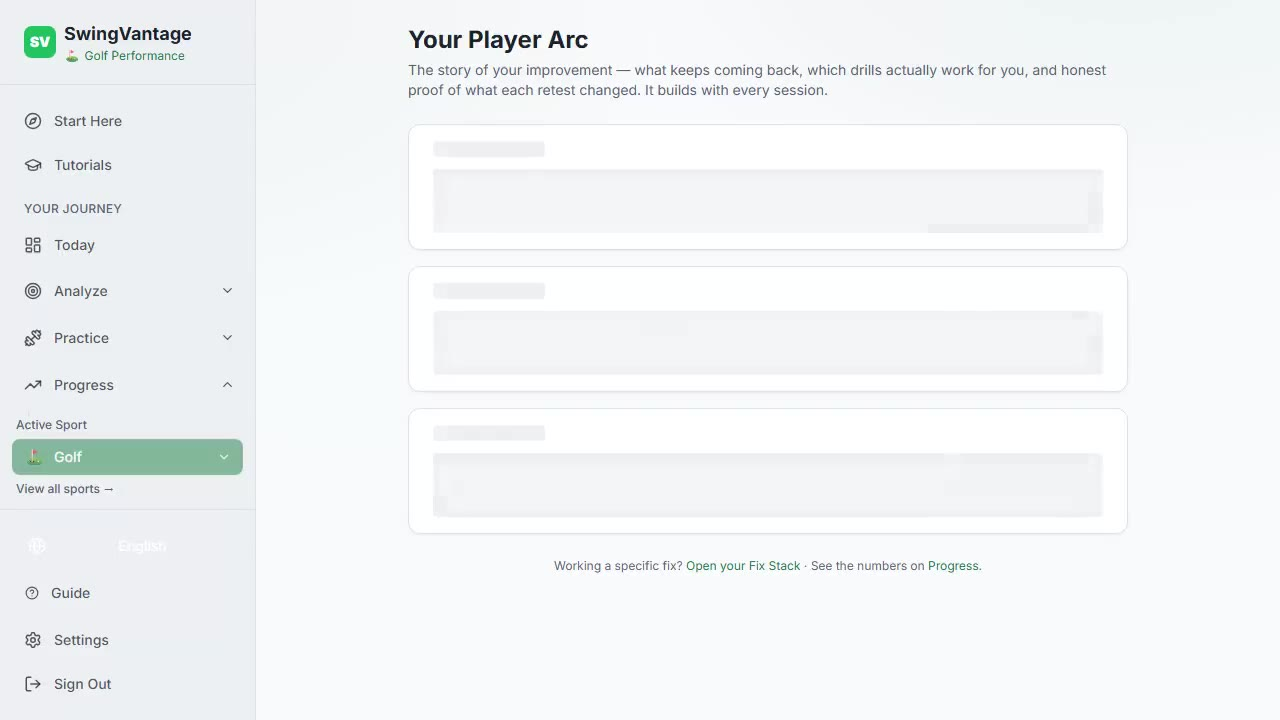
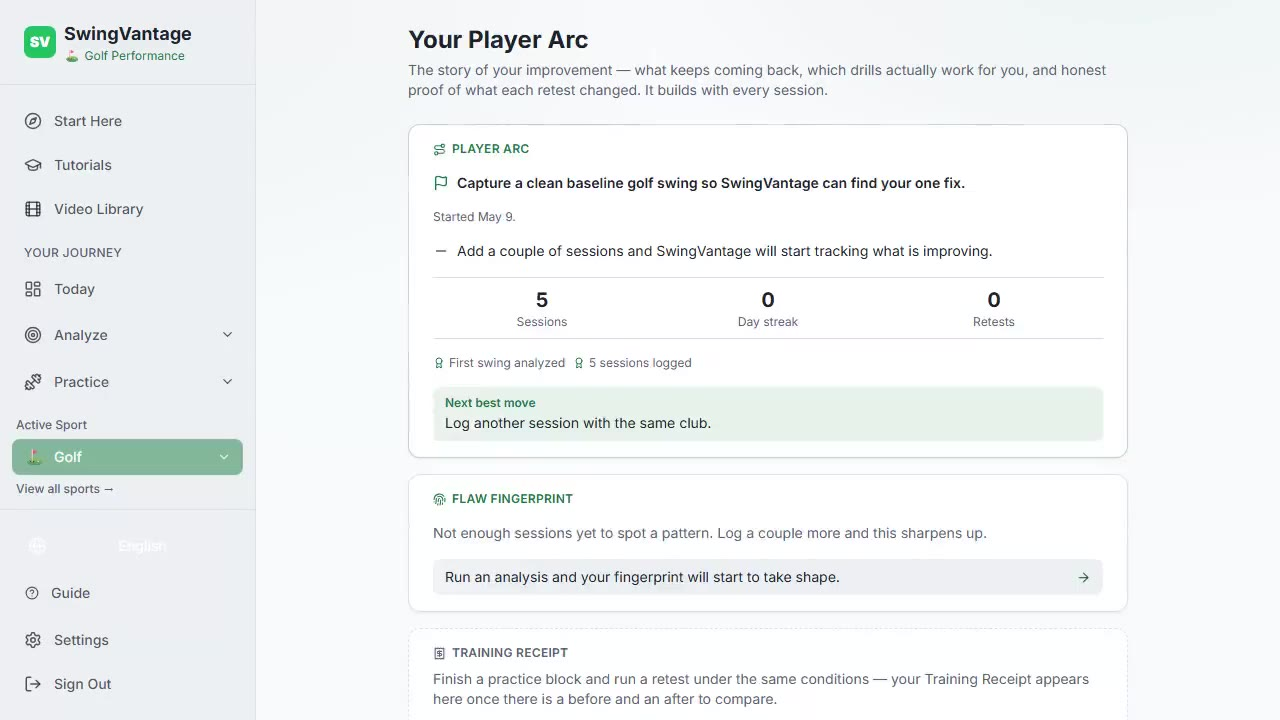
feat(tutorial): livelier progress/arc data + fix data-center copy
Re-record the progress and player-arc videos against a richer seed: five
driver-only sessions that improve over four weeks, so the Score Over Time
chart climbs 51 -> 79 (+28) instead of sitting flat. The old seed reused
one mixed-club CSV, which tanked the consistency score and produced an
identical, flat line.

- make-progress-csvs.mjs: generates progressively-better driver CSVs tuned
  to packages/core scoring (face/strike/path/consistency/launch).
- seed-data.mjs: imports one session per CSV and backdates them across past
  weeks for a real time axis.
- videos.ts: data-center walkthrough no longer says data is saved "in your
  browser" — reworded to the on-device + account-sync framing (matches the
  recorded narration and the no-misleading-copy standard).

diff --git a/apps/web/src/lib/tutorial/videos.ts b/apps/web/src/lib/tutorial/videos.ts
@@ -741,7 +741,7 @@ const RAW_TUTORIAL_VIDEOS: TutorialVideo[] = [
     duration: '2:30',
     route: '/data',
     script: [
-      'SwingVantage saves your data in your browser — so a backup keeps it safe if you switch devices or clear history.',
+      'SwingVantage saves your data on your device and syncs it to your account, so your progress is safe across devices.',
       'Tap Download Backup to save a complete copy: sessions, profiles, equipment, progress, and badges.',
       'You can password-protect the file. Keep that password safe — without it, an encrypted backup can’t be recovered.',
       'To restore, upload the file and preview what comes back. Use Merge to add without deleting, or Replace for a full reset.',